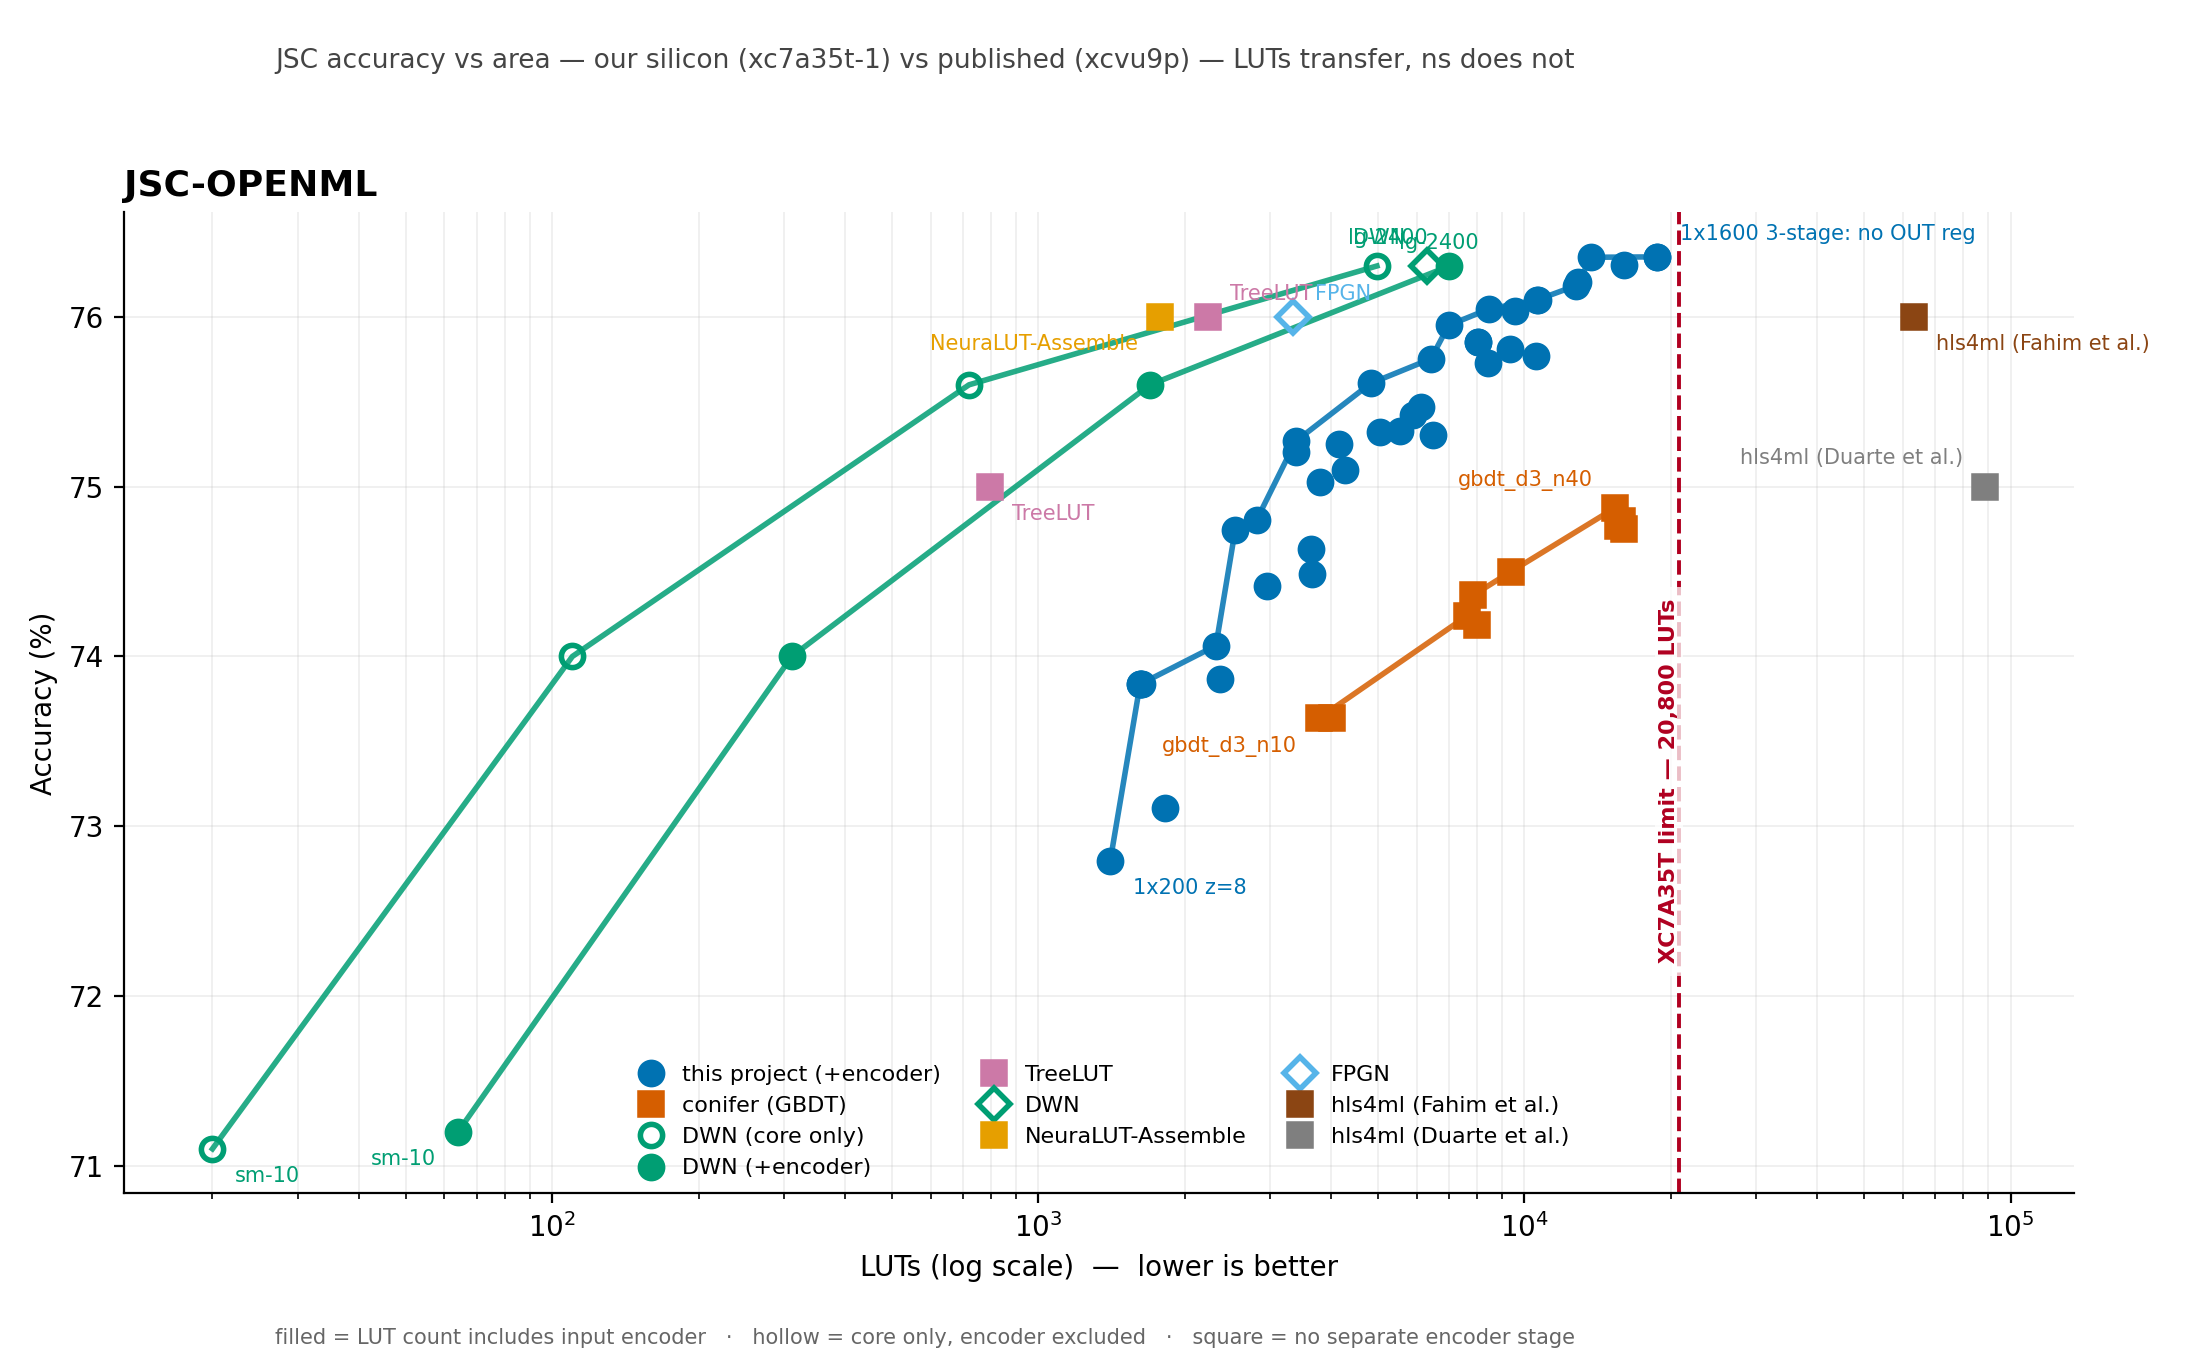
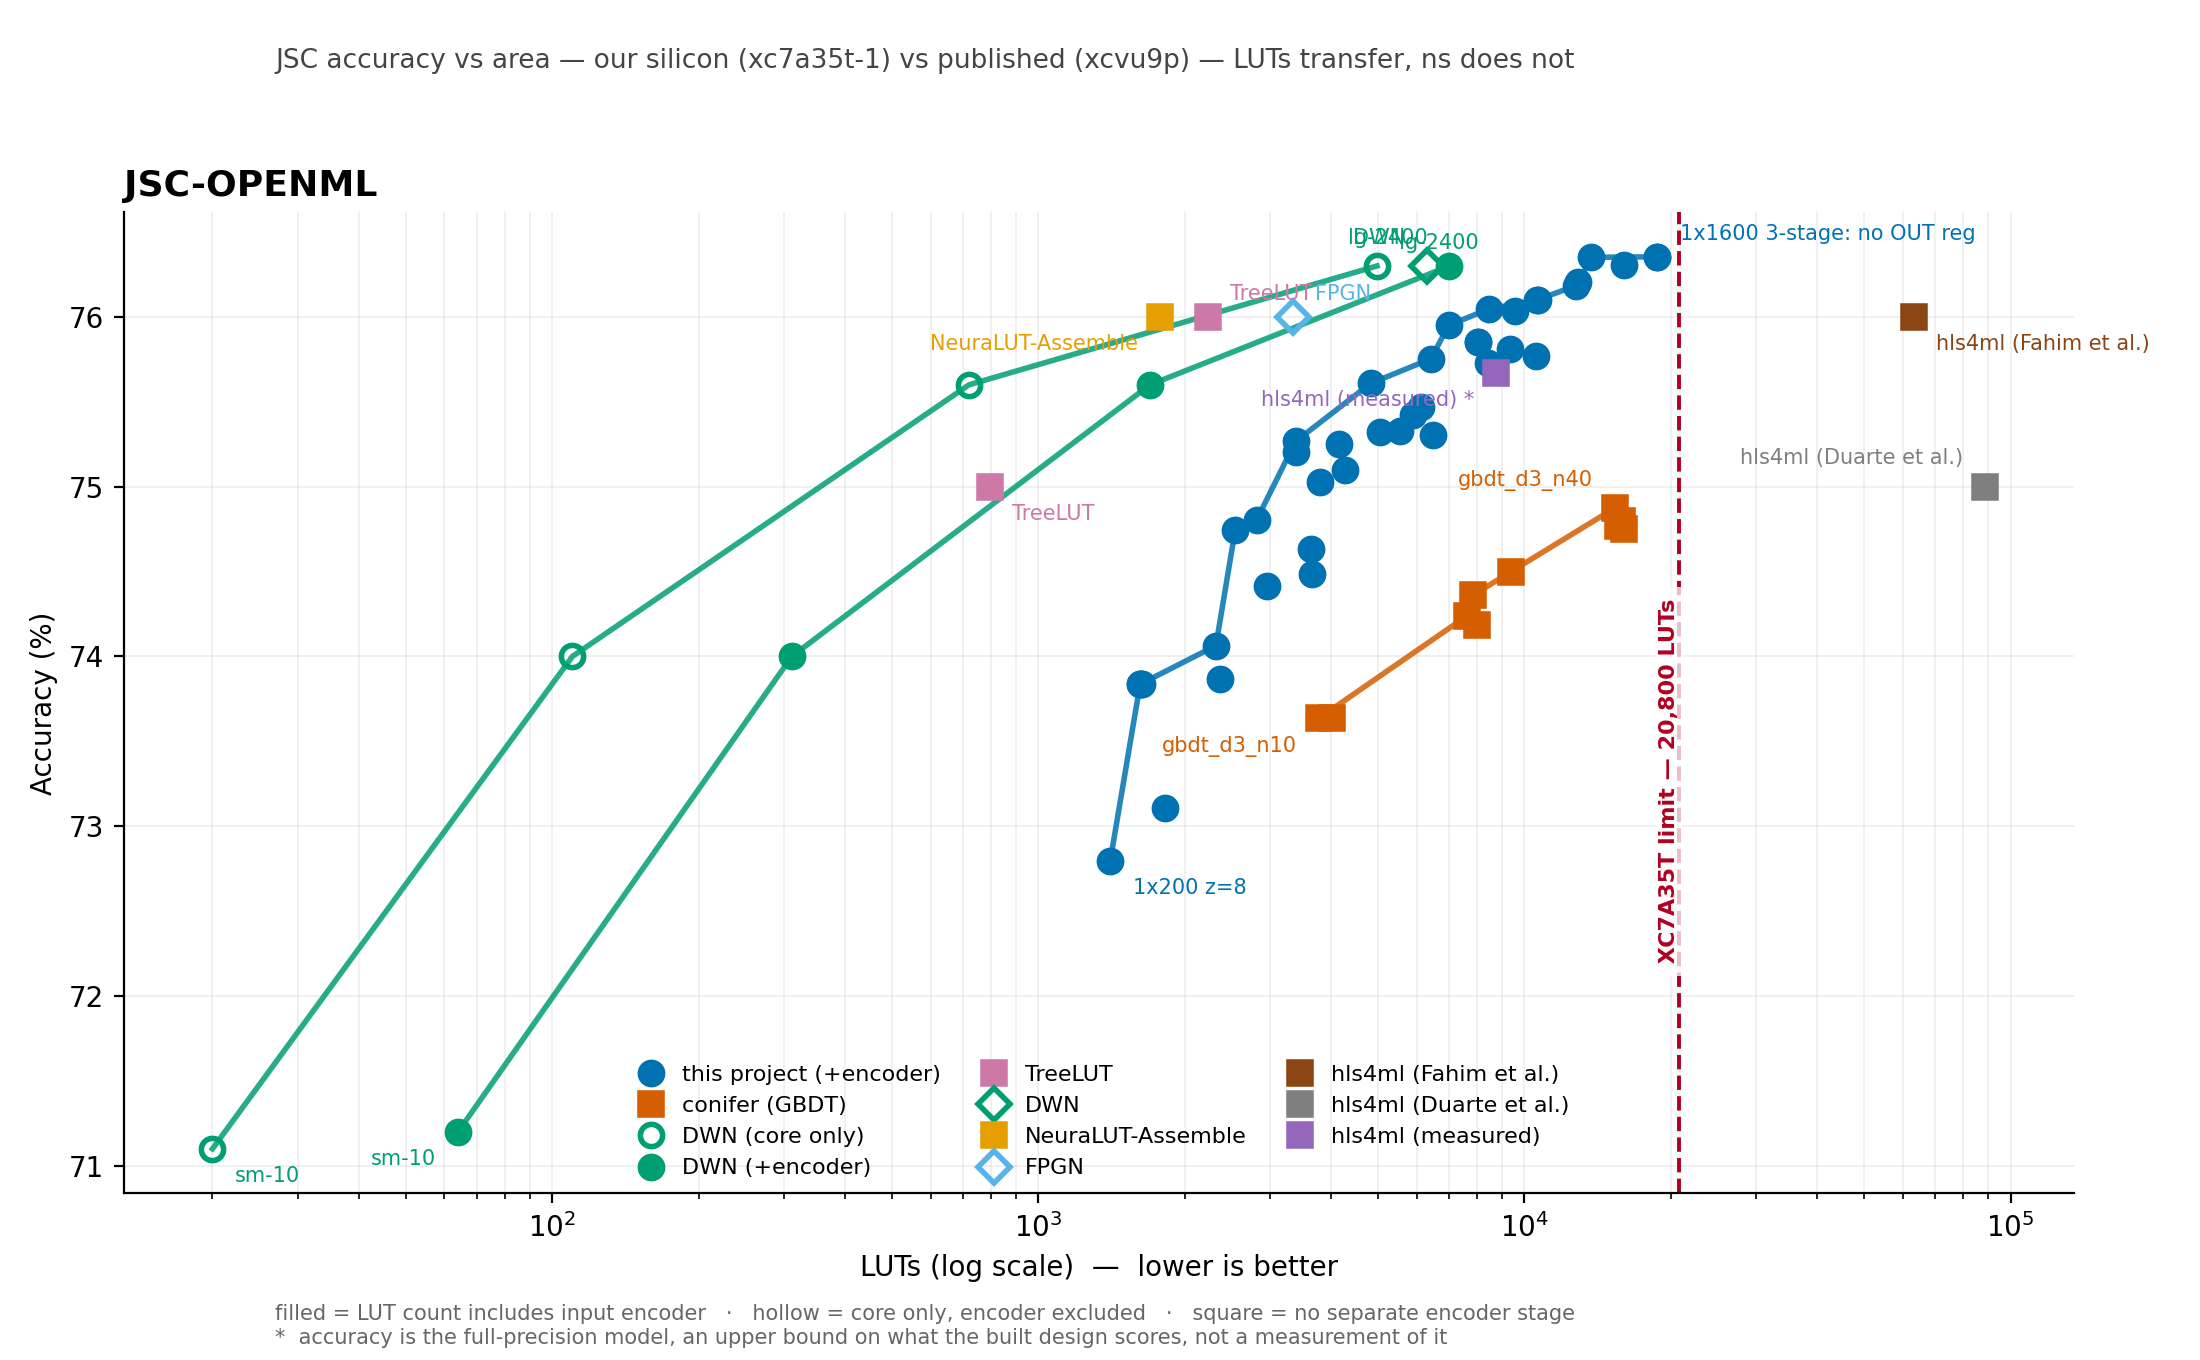
plot the measured hls4ml result and close two stale ledger rows

diff --git a/cc/literature/table.py b/cc/literature/table.py
@@ -18,6 +18,7 @@ REPO = os.path.dirname(os.path.dirname(HERE))
 LIT = os.path.join(HERE, 'jsc_literature.json')
 OURS = os.path.join(REPO, 'docs', 'results', 'sweep-results.json')
 CONIFER = os.path.join(REPO, 'docs', 'results-cc', 'conifer-results.json')
+HLS4ML = os.path.join(REPO, 'docs', 'results-cc', 'hls4ml-results.json')
 
 OUR_PART = 'xc7a35t-1'
 
@@ -94,6 +95,38 @@ def load_conifer(path=CONIFER, fitting_only=True):
     return out
 
 
+def load_hls4ml(path=HLS4ML, fitting_only=True):
+    """The hls4ml quantised MLP sweep, same silicon and same build.tcl as everything else.
+
+    NOTE the accuracy is the FLOAT model's, an upper bound on what the quantised design scores --
+    hls4ml's own accuracy needs its generated C++ compiled, which the measuring machine could not
+    do. Carried through as a note so the row cannot be quoted as a measured accuracy.
+    """
+    if not os.path.exists(path):
+        return []
+    with open(path, encoding='utf-8') as fh:
+        raw = json.load(fh)
+    out = []
+    for c in raw:
+        fits = c.get('status') == 'ok' and c.get('luts')
+        if fitting_only and not fits:
+            continue
+        cyc, fmax = c.get('latency_cycles'), c.get('fmax_mhz')
+        out.append({
+            'method': 'hls4ml (measured)', 'model': c['name'], 'variant': None,
+            'dataset': 'openml', 'accuracy_pct': c.get('accuracy_float_pct'),
+            'lut': c.get('luts'), 'ff': c.get('ff'), 'dsp': c.get('dsp'), 'bram': c.get('bram'),
+            'fmax_mhz': fmax,
+            'latency_ns': (cyc / fmax * 1000) if (cyc and fmax) else None,
+            'latency_cycles': cyc, 'part': OUR_PART, 'encoder_included': 'n/a',
+            'source': 'docs/results-cc/hls4ml-results.json', 'confidence': 'measured',
+            'fits': bool(fits), 'device_pct': c.get('device_pct'),
+            'accuracy_is_upper_bound': bool(c.get('accuracy_is_float_upper_bound')),
+        })
+    out.sort(key=lambda r: -(r['accuracy_pct'] or 0))
+    return out
+
+
 def _conv(row):
     e = row.get('encoder_included')
     return {True: 'incl', False: 'core only', 'n/a': 'n/a', 'unknown': '?'}.get(e, '?')
@@ -107,7 +140,9 @@ def render(rows, markdown=False):
     hdr = ['Method', 'Model', 'Acc %', 'LUT', 'FF', 'Fmax', 'Lat ns', 'Encoder', 'Part']
     body = [[
         r['method'] + ('' if r.get('fits', True) else ' !'),
-        r['model'] or '', _fmt(r['accuracy_pct'], '.2f'), _fmt(r['lut'], ','),
+        r['model'] or '',
+        _fmt(r['accuracy_pct'], '.2f') + ('*' if r.get('accuracy_is_upper_bound') else ''),
+        _fmt(r['lut'], ','),
         _fmt(r['ff'], ','), _fmt(r['fmax_mhz'], '.0f'), _fmt(r['latency_ns'], '.1f'),
         _conv(r), r['part'] or '?',
     ] for r in rows]
@@ -139,6 +174,7 @@ def main(argv=None):
     if not args.no_ours:
         rows += load_ours(fitting_only=not args.include_unfittable)
         rows += load_conifer(fitting_only=not args.include_unfittable)
+        rows += load_hls4ml(fitting_only=not args.include_unfittable)
 
     wanted = ['openml', 'cernbox', 'unknown'] if args.dataset == 'all' else [args.dataset]
     ds = lit['datasets']

diff --git a/cc/literature/plot.py b/cc/literature/plot.py
@@ -24,7 +24,8 @@ HERE = os.path.dirname(os.path.abspath(__file__))
 REPO = os.path.dirname(os.path.dirname(HERE))
 sys.path.insert(0, HERE)
 
-from table import load_conifer, load_literature, load_ours   # noqa: E402
+from table import (load_conifer, load_hls4ml, load_literature,   # noqa: E402
+                   load_ours)
 
 OUT = os.path.join(REPO, 'build', 'cc', 'literature')
 SNAP = os.path.join(REPO, 'docs', 'results-cc')
@@ -37,6 +38,7 @@ C = {
     # our silicon
     'this project': '#0072B2',
     'conifer (GBDT)': '#D55E00',
+    'hls4ml (measured)': '#9467BD',
     # the DWN family
     'DWN': '#009E73',
     # published, OpenML
@@ -111,6 +113,8 @@ def draw(ax, rows, dataset, ours_present):
             [max(pts, key=lambda x: x['accuracy_pct']), min(pts, key=lambda x: x['lut'])])
         for i, p in enumerate(to_label):
             text = p['model'] if curve else method
+            if p.get('accuracy_is_upper_bound'):
+                text += ' *'      # accuracy is the float model's, not the built design's
             # Alternate the offset: several published points sit within 0.3 pp of each other
             # at ~76%, and a fixed offset stacks their labels on top of one another.
             dx, dy = ((8, 6), (8, -12), (-8, 8), (-8, -12))[(_LBL[0] + i) % 4]
@@ -144,7 +148,7 @@ def main(argv=None):
     args = ap.parse_args(argv)
 
     lit = load_literature()
-    rows = list(lit['results']) + load_ours() + load_conifer()
+    rows = list(lit['results']) + load_ours() + load_conifer() + load_hls4ml()
     os.makedirs(OUT, exist_ok=True)
 
     written = []
@@ -180,10 +184,12 @@ def main(argv=None):
                     transform=ax.transAxes, ha='center', va='top', fontsize=9,
                     color='#B00020', linespacing=1.5,
                     bbox=dict(fc='#FFF4F4', ec='#B00020', lw=1.2, alpha=.97, pad=7))
-        fig.text(.125, .012,
-                 'filled = LUT count includes input encoder   ·   hollow = core only, encoder '
-                 'excluded   ·   square = no separate encoder stage',
-                 fontsize=7.5, color='#666')
+        note = ('filled = LUT count includes input encoder   ·   hollow = core only, encoder '
+                'excluded   ·   square = no separate encoder stage')
+        if any(r.get('accuracy_is_upper_bound') for r in rows):
+            note += ('\n*  accuracy is the full-precision model, an upper bound on what the '
+                     'built design scores, not a measurement of it')
+        fig.text(.125, .012, note, fontsize=7.5, color='#666')
         fig.tight_layout(rect=[0, .03, 1, .94])
 
         for d in ([OUT, SNAP] if args.snapshot else [OUT]):

diff --git a/docs/phase3-ledger.md b/docs/phase3-ledger.md
@@ -882,11 +882,11 @@ plot until resolved.
 | ~~Why is our encoder 7.6× theirs at the same `z`?~~ | ✅ **Closed 2026-08-10. Entirely comparator width.** At 8 bits ours is 182 LUTs against their 201. The hypothesis was right in mechanism and wrong about needing training: `in-place` at 10 bits gives **5.91×** with no retraining at all. |
 | ~~Does the width result hold at `1x2400 z=50`?~~ | ✅ **Closed 2026-08-10, with two corrections.** The saving holds (**5.80×**) but the accuracy-safe width moved from 10 to **11 bits** (fan-out amplifies encoder error ~19x more), and the cliff is between **12 and 11**, not 12 and 10. Both limits are adjacent and neither extrapolates — re-measure per config. |
 | Is `q16.12` worth sweeping? | ✅ **Answered: yes, it was the largest unswept axis.** 6 of 16 bits were doing nothing. See the entry above and the Phase 2 impact note. |
-| Do the non-DWN rows include an input encoder? | ⚠ **Open.** Settled for DWN only. LogicNets/PolyLUT/NeuraLUT take quantised inputs directly, so the question may not apply in the same form — but that itself has to be stated per row, not assumed. |
+| ~~Do the non-DWN rows include an input encoder?~~ | ✅ **Closed 2026-08-11 — duplicate of the row below**, which resolved it: `n/a` is correct and sourced. Left here struck through rather than deleted, because it stayed open for a day after the question had already been answered. |
 | ~~Which JSC split does each paper use?~~ | ✅ **Closed 2026-08-10, and it was the right thing to ask.** Two datasets, ~1.05 pp apart, and the standard tables conflate them. We are on OpenML with DWN, TreeLUT and hls4ml; the PolyLUT/NeuraLUT/LogicNets lineage is on CERNBox. Enforced in code by `cc/literature/table.py`. |
 | Does LLNN use OpenML or CERNBox? | ⚠ **Open.** IEEE TCAS-I, paywalled. Two rows parked until resolved. Try an author preprint. |
 | ~~Which convention do the non-DWN rows use?~~ | ✅ **Closed 2026-08-11, `n/a` confirmed.** TreeLUT quantises host-side "as a pre-processing step"; Mecik & Kumm state that it was **DWN** whose evaluations reported only the LUT layer and classification logic, not the LUT-based family. See the 2026-08-11 entry. |
-| Is the hls4ml 76.2% / 63,251 number real? | ⚠ **Open, and load-bearing.** It is the headline comparison in our README and `docs/phase3-plan.md` §5, and it currently traces only to our own brief §8 with no primary citation. Must be found or the claim dropped. Marked `unverified` in the JSON. |
+| ~~Is the hls4ml 76.2% / 63,251 number real?~~ | ✅ **Closed 2026-08-10.** Traced to Fahim et al. via PolyLUT (arXiv:2309.02334) Table IV: **76%, 63,251 LUTs, 4,394 FF, 38 DSP, 0 BRAM, 200 MHz, 45 ns**. Two corrections fell out of it — the accuracy is reported as 76%, not 76.2%, and it uses 38 DSPs, which our brief never recorded. Marked `verified` in the JSON. |
 | Does FPGN beat us on our own comparison? | ⬜ Unread. Compares against DWN directly; the most likely paper to change what we can claim. |
 | **Which JSC dataset are the DWN paper's numbers on?** | ⚠ **Open, load-bearing, top question for the authors — tagged `PENDING-AUTHOR-REPLY`.** `grep -rn PENDING-AUTHOR-REPLY docs/ cc/ README.md` lists every claim that has to be revisited if the answer is CERNBox rather than OpenML. Asked 2026-08-10; no reply as of 2026-08-11. Paper says "as in the NeuraLUT paper" (CERNBox); code, FPGN, our reproduction and the accuracy level all say OpenML. Our headline comparison against DWN `lg` is only valid if OpenML. See the 2026-08-10 entry. |
 | ~~Does the weightless lineage (ULEEN/BTHOWeN/WiSARD) need JSC rows?~~ | ✅ **Closed 2026-08-10, no.** None of them report JSC — they use the BTHOWeN suite. They belong in brief §8 as the lineage DWN descends from, which is a citation fix, not a table change. |
